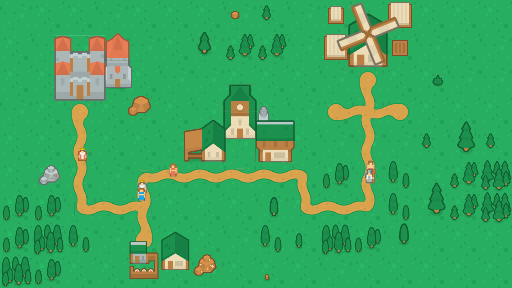
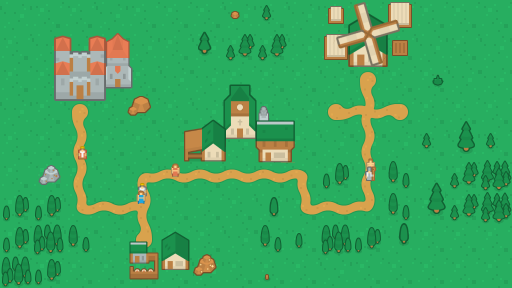
Remove seams from multipart village buildings

diff --git a/src/puzzles/medievalVillage/MedievalVillageScene.ts b/src/puzzles/medievalVillage/MedievalVillageScene.ts
@@ -9,6 +9,26 @@ const atlasKey = 'medieval-village-artwork';
 const animationRate: Record<PuzzleAnimationSpeed, number> = { Slow: 0.5, Normal: 1, Fast: 2 };
 const frameName = (kind: string, id: number) => `medieval${kind}_${String(id).padStart(2, '0')}.png`;
 
+function assembledBuilding(textures: Phaser.Textures.TextureManager, frames: readonly number[]) {
+  const key = `${atlasKey}-building-${frames.join('-')}`;
+  if (textures.exists(key)) return key;
+
+  // Join the atlas cuts at native size before linear filtering samples across the seam.
+  const parts = frames.map((id) => textures.getFrame(atlasKey, frameName('Structure', id)));
+  const width = Math.max(...parts.map((part) => part.realWidth));
+  const height = parts.reduce((sum, part) => sum + part.realHeight, 0);
+  const texture = textures.createCanvas(key, width, height);
+  if (!texture) throw new Error(`Could not assemble building ${key}`);
+
+  let bottom = height;
+  for (const part of parts) {
+    bottom -= part.realHeight;
+    texture.drawFrame(atlasKey, part.name, (width - part.realWidth) / 2, bottom, false);
+  }
+  texture.refresh();
+  return key;
+}
+
 export class MedievalVillageScene extends Phaser.Scene {
   static readonly key = 'MedievalVillage';
   private animate?: (delta: number) => void;
@@ -41,12 +61,10 @@ export class MedievalVillageScene extends Phaser.Scene {
       const scenery = this.add.container();
       village.add(scenery);
       for (const { x, y, kind, frames, scale } of props) {
-        let bottom = y;
-        for (const frame of frames) {
-          const part = sprite(x, bottom, kind, frame, scale).setOrigin(0.5, 1).setDepth(y);
-          scenery.add(part);
-          bottom -= part.displayHeight;
-        }
+        const image = frames.length === 1
+          ? sprite(x, y, kind, frames[0], scale)
+          : this.add.image(x, y, assembledBuilding(this.textures, frames)).setScale(scale);
+        scenery.add(image.setOrigin(0.5, 1).setDepth(y));
       }
       const bladeScale = mill.blades === 13 ? 0.51 : 0.45;
       const blades = sprite(mill.x, mill.y - mill.hub, 'Structure', mill.blades, bladeScale).setDepth(mill.y + 0.01);
